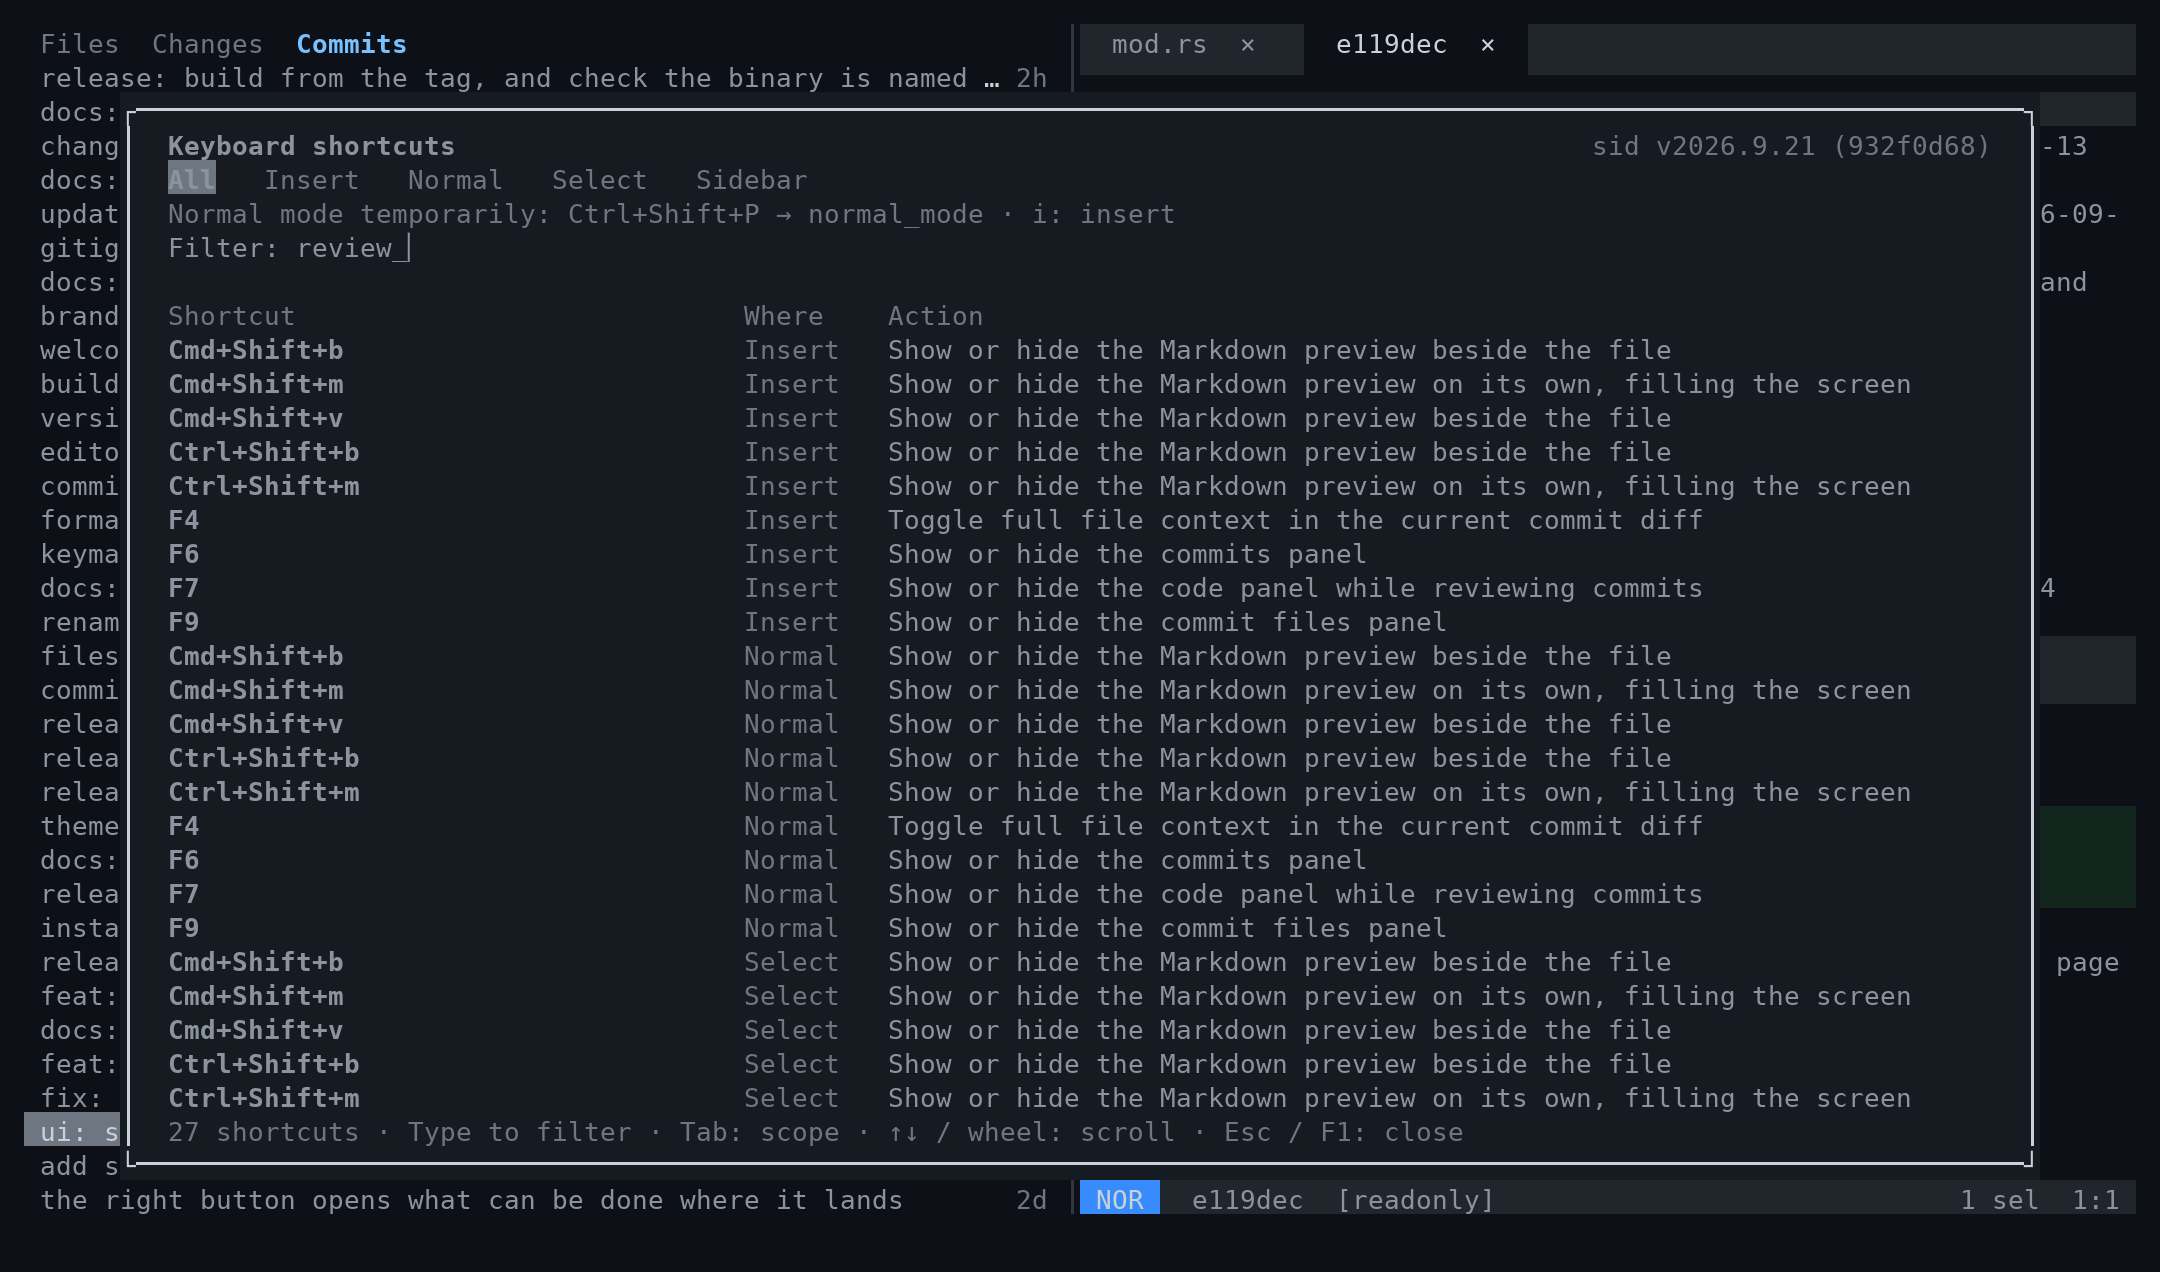
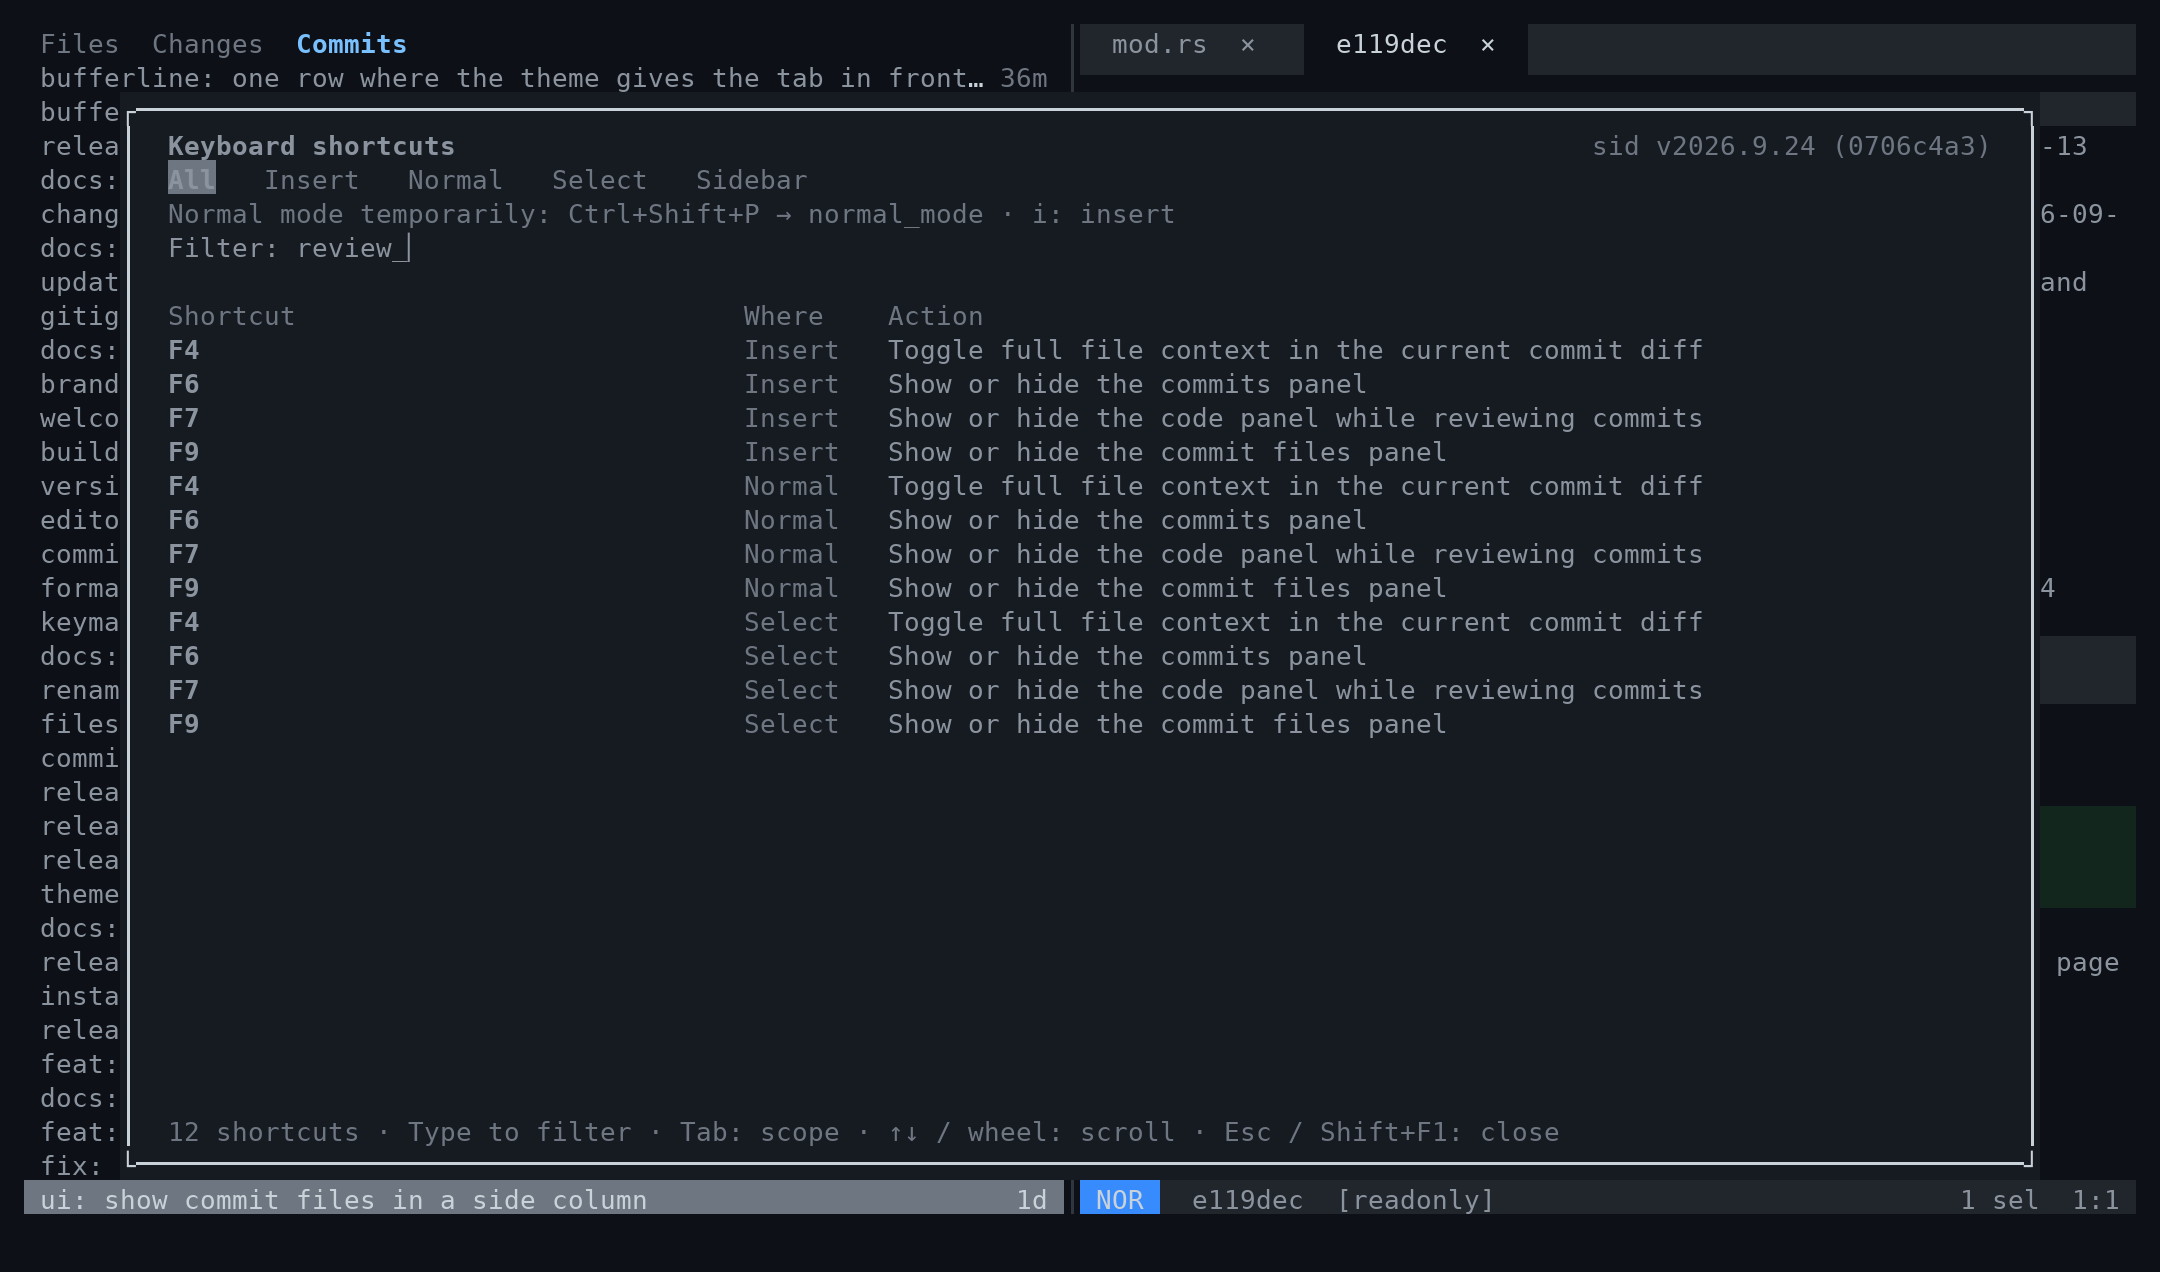
docs: F1 for the palette, and the keys every terminal sends

diff --git a/README.md b/README.md
@@ -68,9 +68,9 @@ on the screen. By now it is a different editor, so it has a name of its own:
 The editor's own keys — `Ctrl-q`, `Ctrl-s`, `F12` — work while the sidebar has
 the focus.
 
-`Ctrl-b` shows or hides it and `Ctrl-Shift-e` focuses it; started on a file
+`Ctrl-b` shows or hides it and `Ctrl-e` focuses it; started on a file
 (`sid foo.ts`), the editor opens without it. It follows the file you are
-editing, and `Ctrl-Shift-r` takes you to that file in the tree from wherever
+editing, and `Ctrl-r` takes you to that file in the tree from wherever
 you are. Inside it the arrows move, `Enter`
 opens, and **typing walks to the file whose name you are typing**, the way an
 explorer does; `Ctrl-f` opens a filter on the top row instead, and the tree
@@ -92,7 +92,8 @@ on screen again at once.
 
 ## Search and replace across the project
 
-`Ctrl-Shift-f` opens a panel with a replace box and
+`Ctrl-Shift-f` — or `Ctrl-f` pressed twice, which widens the search of the file to
+the project — opens a panel with a replace box and
 include/exclude filters (the filters are remembered), switches for case, whole
 word, regex and preserving case — the panel's border says their keys — and
 each result shows the line it matched. `Alt-a` replaces every match on
@@ -113,7 +114,7 @@ border: the matches listed by line, the file beside them, the same switches.
 
 `F12` goes to the definition of what is under the cursor and `Shift-F12` lists
 its references; `F2` renames it everywhere, and `F8` walks to the next problem
-the language server found. `Ctrl-Shift-o` lists the symbols of the file and
+the language server found. `Ctrl-o` lists the symbols of the file and
 `Ctrl-t` those of the whole project, filtered as you type — from the language
 server when there is one, and from the syntax tree when there is not, so they
 work on any file sid can highlight. `Ctrl-Alt-←` and `Ctrl-Alt-→` take you back
@@ -247,7 +248,7 @@ So the keys are the ones you already know:
 | `Ctrl-Home` / `Ctrl-End` | To the start and the end of the file |
 | `Backspace` / `Delete` | Delete the selection, or one character |
 | `Ctrl-Backspace` / `Ctrl-Delete` | Delete a whole word |
-| `Ctrl-d` | Select the word, then where it appears next — one more caret each time |
+| `Ctrl-d` / `Ctrl-l` | Select the word, then where it appears next — one more caret each time / every place at once |
 | `Ctrl-Shift-d` / `Ctrl-Shift-k` | Duplicate / delete the line |
 | `Ctrl` + `↑` / `↓` | Move the line up or down |
 | `Ctrl-Shift` + `↑` / `↓` | Grow the selection to the enclosing code, and back |
@@ -256,16 +257,16 @@ So the keys are the ones you already know:
 | `Ctrl-n` / `Ctrl-w` / `Shift-F4` | A new buffer / close this one / close them all |
 | `Ctrl-s` / `Ctrl-Shift-s` | Save / save under a name |
 | `Ctrl-p` | Open a file by name |
-| `Ctrl-Shift-p` | The command palette |
-| `F1` | Searchable keyboard shortcut reference (including sidebar controls) |
+| `F1` / `Ctrl-Shift-p` | The command palette: every command, searchable, with its keys |
+| `Shift-F1` | Searchable keyboard shortcut reference (including sidebar controls) |
 | `F4` | Commit diff: full file context / changed sections |
 | `F6` / `F7` | Show or hide the commits / code panel |
 | `Ctrl-Alt-b` / `Ctrl-Alt-l` | Who changed this line / this file's history |
 | `Ctrl-f` / `F3` / `Shift-F3` | Search in this file / next match / previous |
-| `Ctrl-Shift-f` | Search and replace across the project |
+| `Ctrl-Shift-f`, or `Ctrl-f` twice | Search and replace across the project |
 | `Ctrl-g` | Go to a line |
-| `Ctrl-Shift-o` / `Ctrl-t` | Go to a symbol in the file / in the project |
-| `Ctrl-b` / `Ctrl-Shift-e` / `Ctrl-Shift-r` | The sidebar: show or hide / focus / reveal this file |
+| `Ctrl-o` / `Ctrl-t` | Go to a symbol in the file / in the project |
+| `Ctrl-b` / `Ctrl-e` / `Ctrl-r` | The sidebar: show or hide / focus / reveal this file |
 | `Shift-F11` | Collapse every directory of the file tree, wherever the focus is |
 | `Ctrl-PageUp` / `Ctrl-PageDown` | The tab before / after this one |
 | `Ctrl-\` | Split the editor |
@@ -348,12 +349,21 @@ it touches, so the rest of the file, comments included, stays as you wrote it.
 
 ## Find a shortcut
 
-`F1` opens a centered reference over the editor. Type to search your configured
-shortcuts, use `Tab` to filter by mode or sidebar, and `Esc` to close it.
+`F1` opens the command palette: every command, searchable, with the keys bound to
+it. `Shift-F1` opens a centered reference of the shortcuts over the editor. Type to
+search your configured shortcuts, use `Tab` to filter by mode or sidebar, and `Esc`
+to close it.
+
+Not every terminal sends every key. Terminal.app, the Linux console and most
+terminals reached over SSH send no `Cmd`, and send `Ctrl-Shift` with a letter as
+`Ctrl` with it. sid notices, says so once when it starts, and the palette, the
+reference and the welcome screen show only the keys that terminal sends. Everything
+that matters has one: `F1` for any command, `Ctrl-f` twice for the project search,
+and `Ctrl-e`, `Ctrl-r`, `Ctrl-o` and `Ctrl-l` alongside their `Ctrl-Shift` twins.
 
 ![The shortcut reference filtered to code review controls](fork/screenshots/shortcuts.png)
 
-For a temporary visit to normal mode, open `Ctrl-Shift-P`, run `normal_mode`,
+For a temporary visit to normal mode, open the palette with `F1`, run `normal_mode`,
 and press `i` when you want to type again. This leaves your settings alone.
 
 ## If you know Helix
@@ -475,7 +485,7 @@ grammar, so it takes a few minutes.
 `git pull`, a switch of branch — does nothing until you run `./build.sh` again
 and restart sid.** A change only to documentation needs no rebuild.
 
-To know which build you are running, `F1` shows it at the top right and
+To know which build you are running, `Shift-F1` shows it at the top right and
 `sid --version` prints it: `v2026.9.17` is that release, `v2026.9.17+2
 (3c25a543)` a build two commits past it, at commit `3c25a543`.
 
